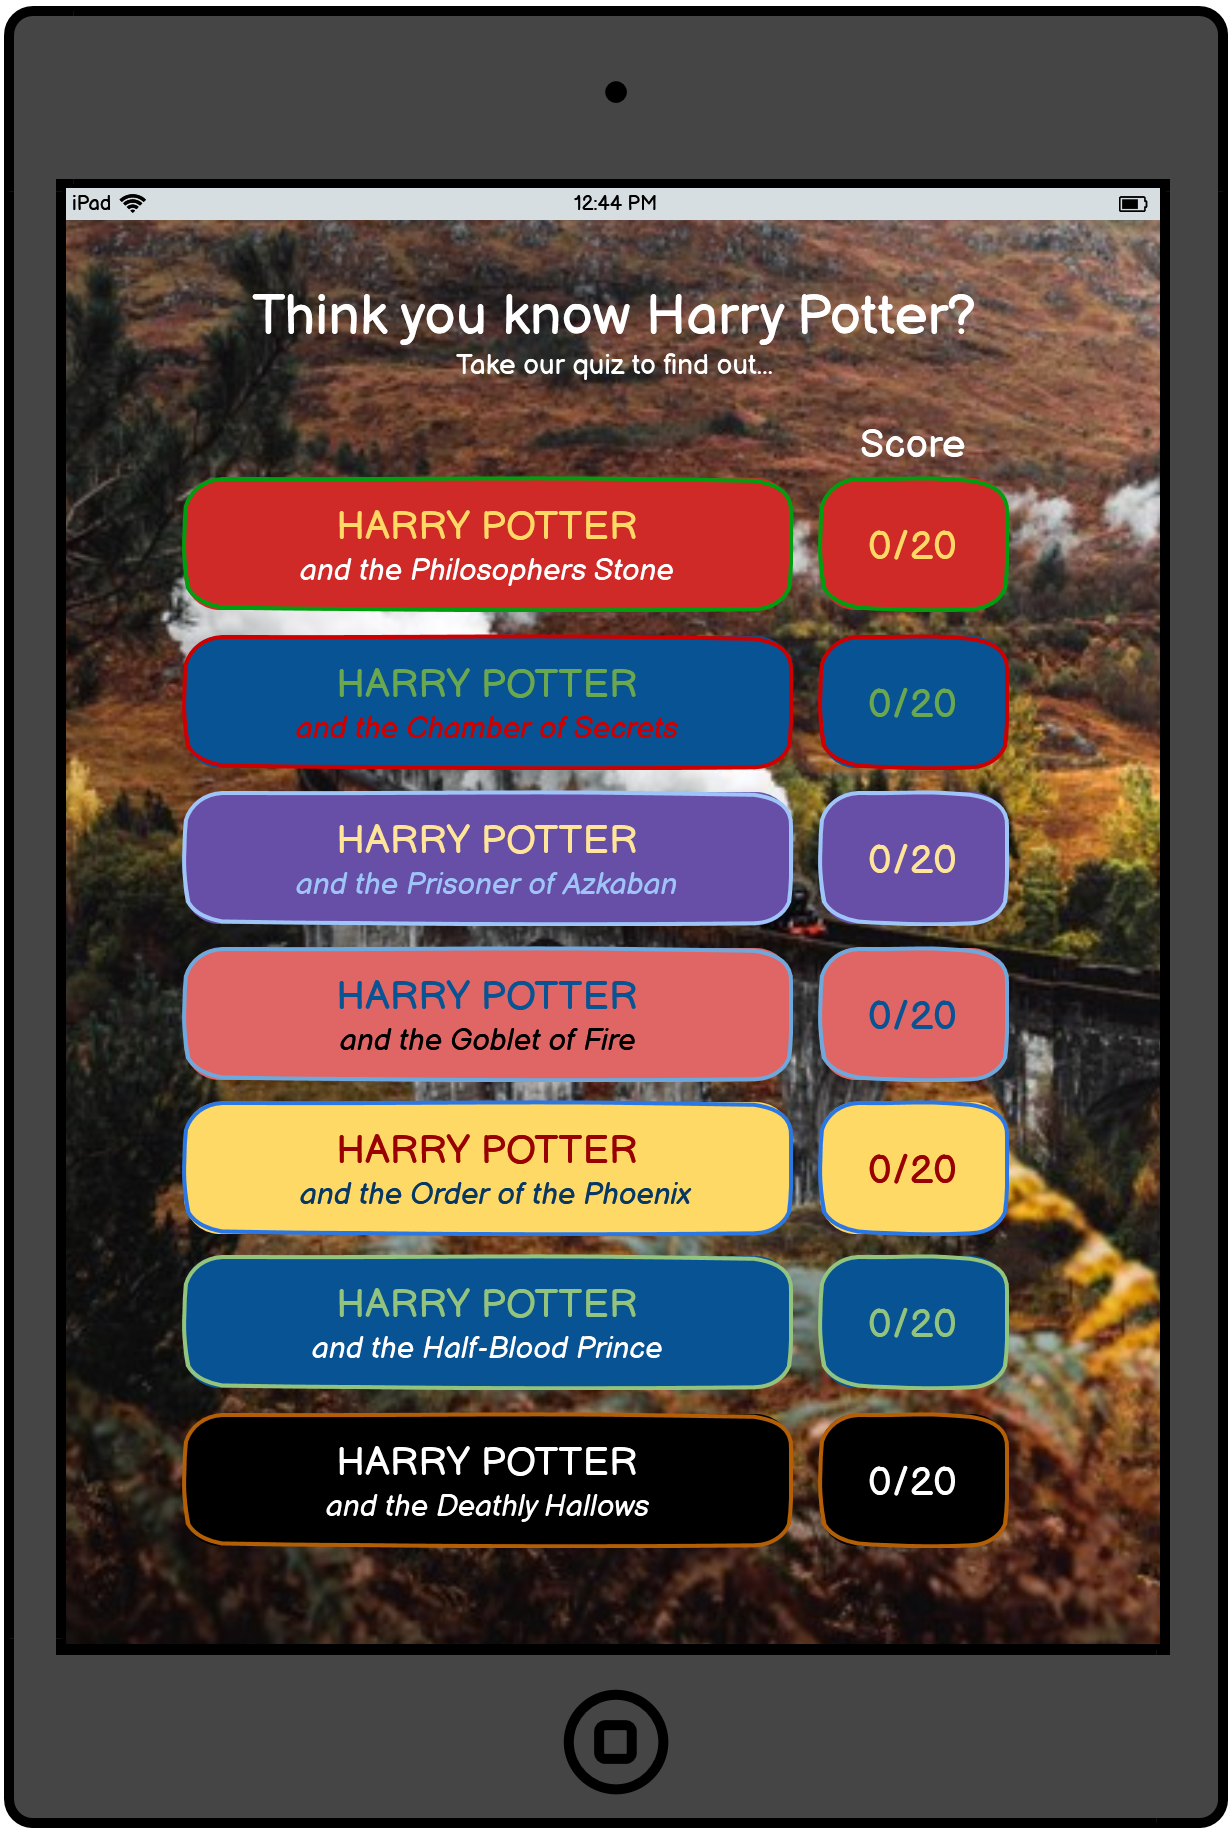
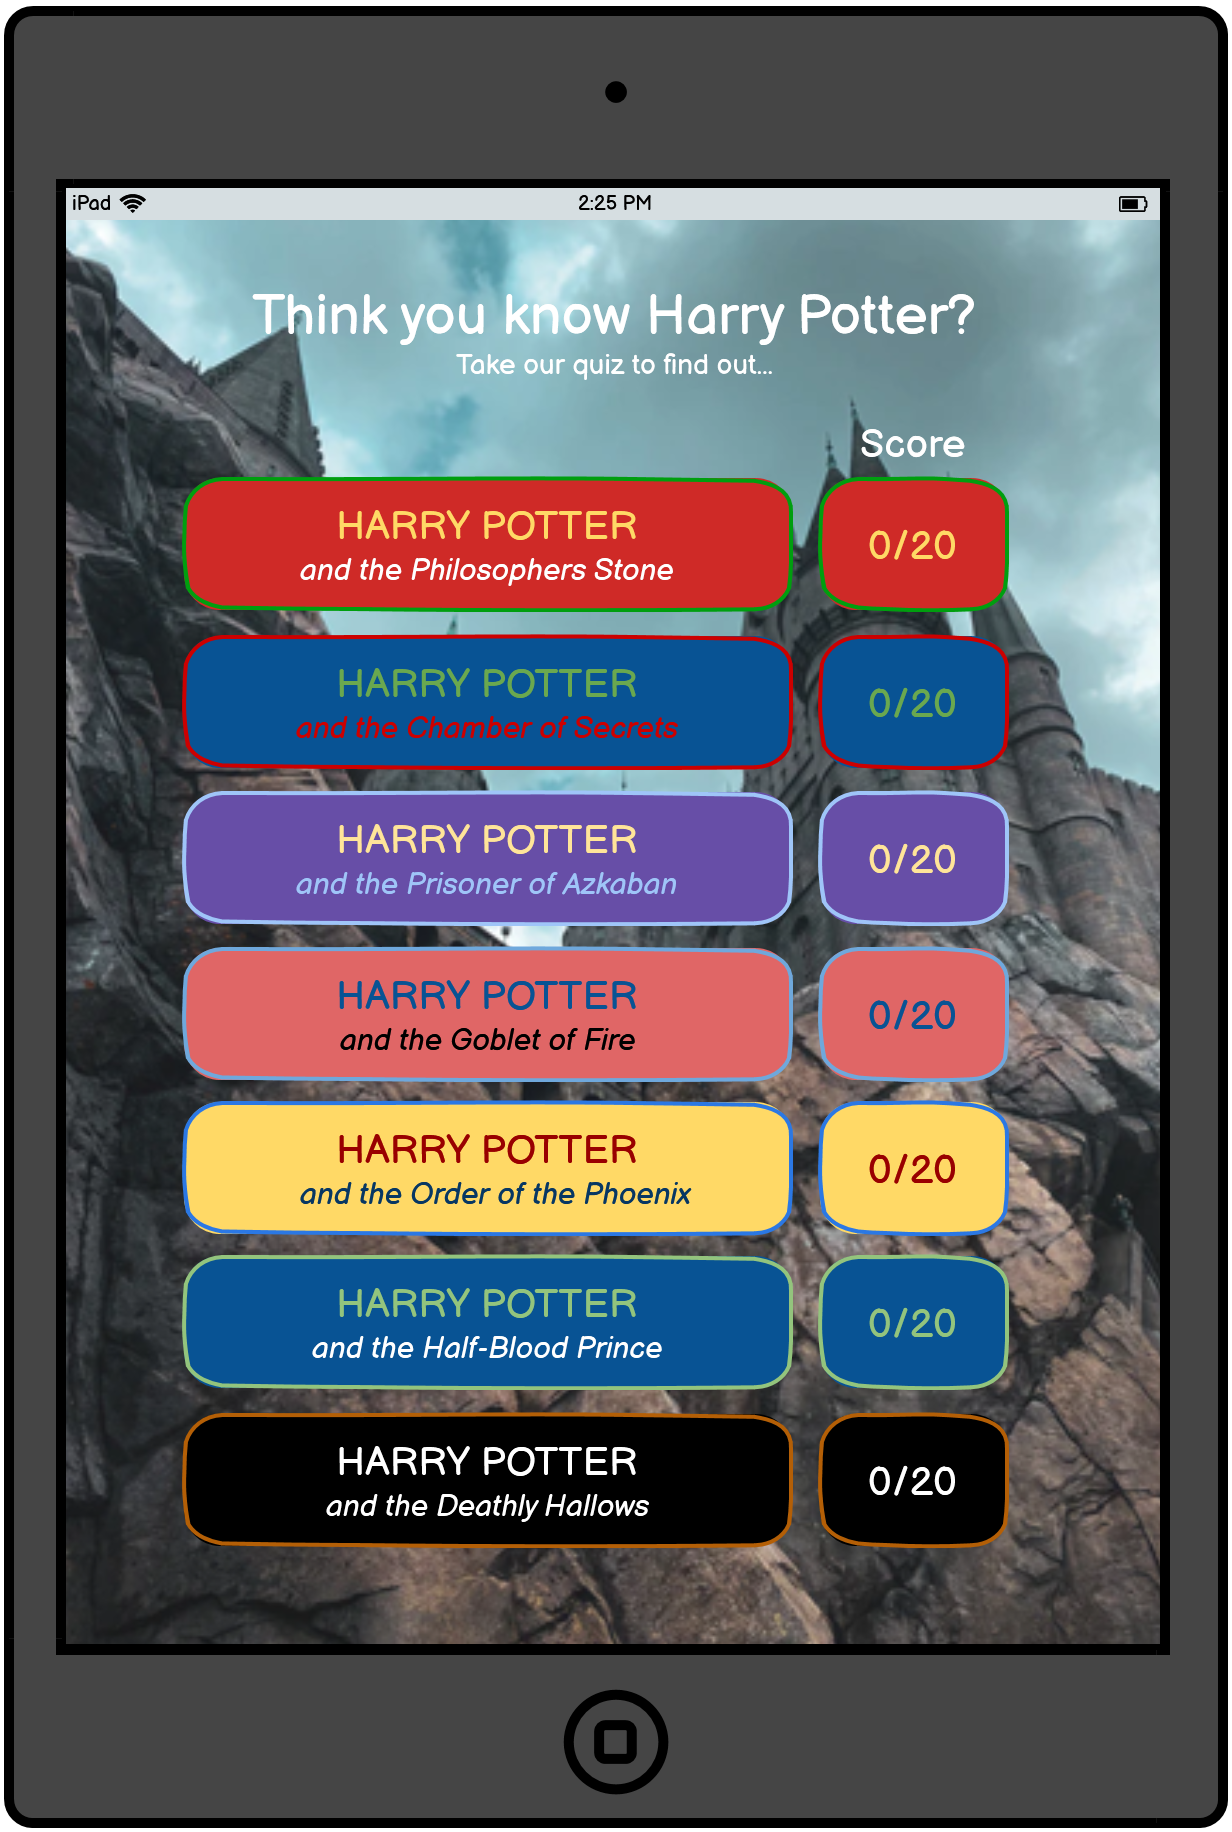
doc: Update wireframes for tablet screen, update README

diff --git a/README.md b/README.md
@@ -61,16 +61,13 @@ The main colours used on the website are the links for the specific quizes (orga
 ## Content
 
 ## Images
-There are only three images used throughout the website - these are the background images used for different screen sizes - one for a more landscape orientation (for all devises) and two further images for portrait orientations (one for tablets and one for phones). Two images on the website came from <a href="https://unsplash.com/" target="_blank">Unsplash</a>:
+There are only two images used throughout the website - these are the background images used for different screen sizes - one for a more landscape orientation (for all devises) and one further image for portrait orientations. One images on the website came from <a href="https://unsplash.com/" target="_blank">Unsplash</a>:
 <ul>
     <li>
         <a href="https://unsplash.com/photos/cADpgwU6Fm4" target="_blank">Jules Marvin Eguilos</a> - background image for portrait orientation on small mobile devices.
     </li>
-    <li>
-        <a href="https://unsplash.com/photos/v-IkXXcQ0Eo" target="_blank">Bryan Walker</a> - background image for portrait orientation on medium mobile devices (such as tablets and iPads).
-    </li>
 </ul>    
-And one image on the website came from <a href="https://www.pexels.com/" target="_blank">Pexels</a>:
+And the other image on the website came from <a href="https://www.pexels.com/" target="_blank">Pexels</a>:
 <ul>
     <li>
         <a href="https://www.pexels.com/photo/train-with-smoke-507410/" target="_blank">Gabriela Palai</a> - background image for landscape orientation on all devices.
